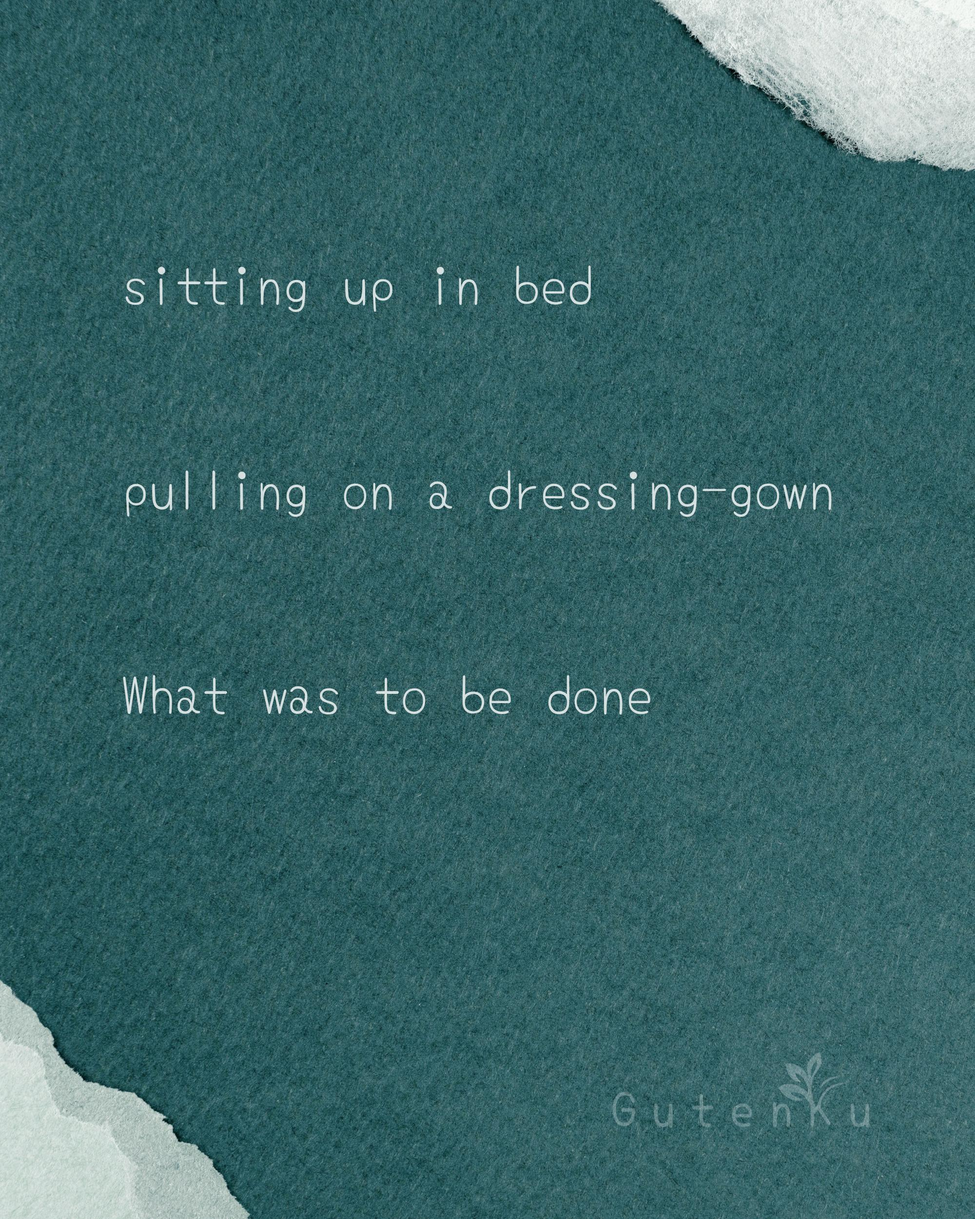
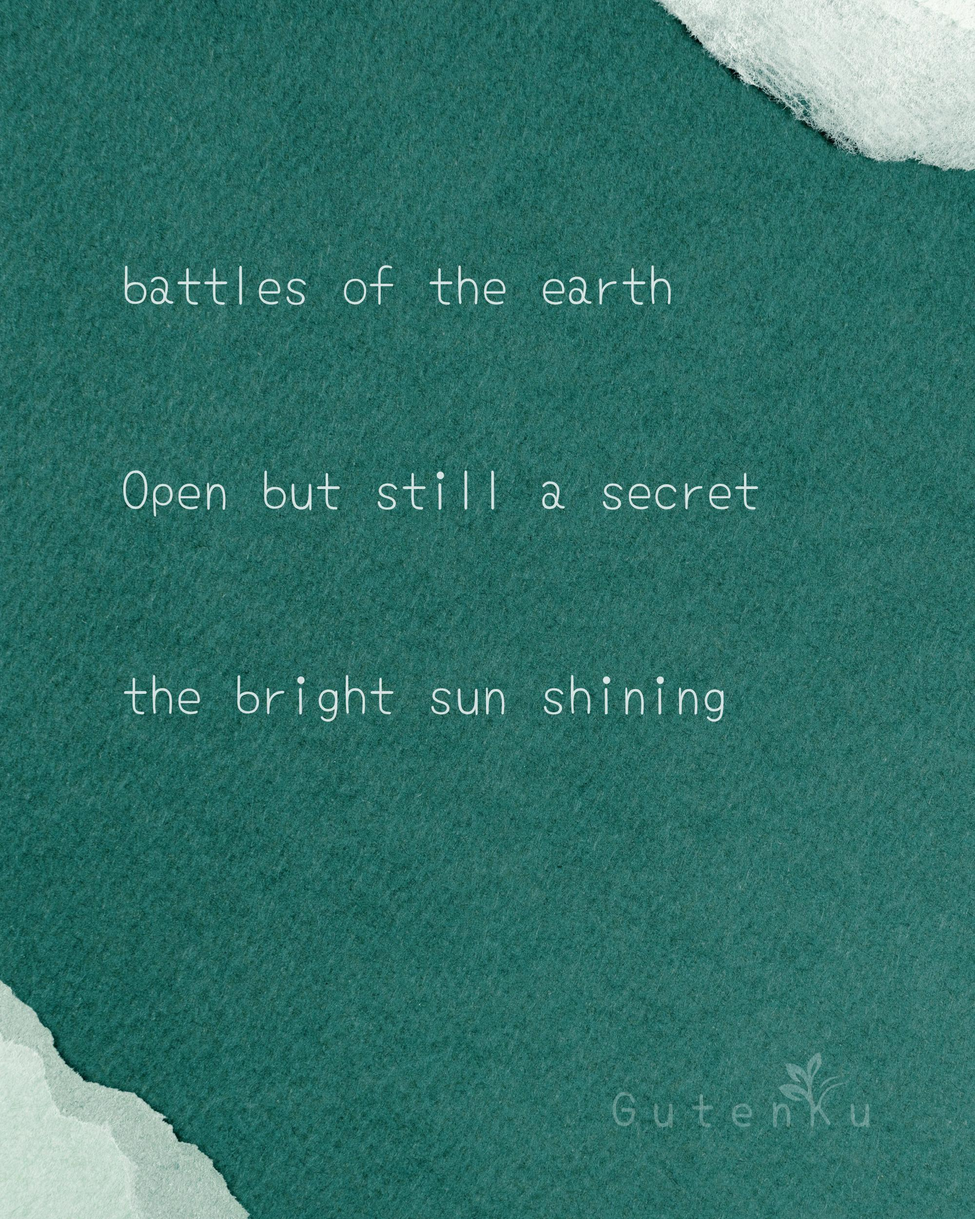
docs(readme): updated daily haiku card

diff --git a/README.md b/README.md
@@ -25,13 +25,13 @@
 <table>
 <tr>
 <td width="300" valign="top">
-<img src="/assets/img/daily_haiku_card.jpg?t=1789466441" width="280" alt="Daily Haiku Card">
+<img src="/assets/img/daily_haiku_card.jpg?t=1789552848" width="280" alt="Daily Haiku Card">
 </td>
 <td valign="top">
 
-> _"This haiku captures a quiet moment of hesitation and reflection. The speaker is sitting up in bed and pulling on a dressing-gown, which suggests the ordinary beginning of a day. However, the final line—"What was to be done"—introduces a sense of uncertainty, as if the speaker is suddenly faced with a problem, decision, or emotional burden. The contrast between the simple physical actions and the unanswered question creates a mood of stillness, thoughtfulness, and perhaps mild anxiety. In just a few words, the poem turns a mundane morning scene into a deeper reflection on confusion and the challenge of action."_
+> _"This haiku suggests a world of conflict and mystery beneath a glowing surface. The phrase "battles of the earth" evokes struggle, tension, and the hardships of human or natural life. Yet the next line, "Open but still a secret," creates a sense of paradox: something is visible and accessible, but its deeper meaning remains hidden. The final line, "the bright sun shining," brings warmth, clarity, and hope, implying that light continues despite the earth’s struggles. Overall, the haiku balances darkness and brightness, secrecy and openness, conflict and beauty."_
 
-— **BotenKu** 📅 _Sep 15, 2026_
+— **BotenKu** 📅 _Sep 16, 2026_
 
 </td>
 </tr>
